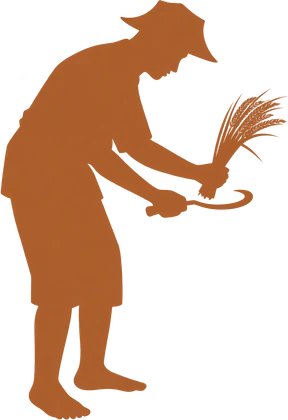
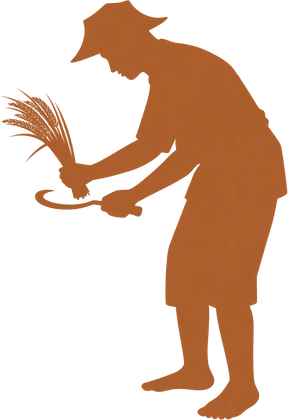
Centre the meaning statement, mirror the farmer, add the contact backend
The meaning line on the homepage centres.

The Raja Bhat silhouette faces the other way. The source PNG has the farmer
facing right; the card artwork has him mirrored, facing left. The asset is
flipped at export rather than with a CSS transform, so the file itself matches
the drawing.

site/contact/apps-script.gs is the Get in Touch backend, with its setup steps
in the file. It takes the form's JSON, validates it, and mails it to
nikhiludupa4@gmail.com with Reply-To set to the sender so a reply goes
straight back.

One thing in there is load-bearing and easy to undo by accident: the site
posts JSON as text/plain deliberately. An application/json POST triggers a
CORS preflight, and an Apps Script web app cannot answer OPTIONS -- the form
would fail in the browser with nothing useful logged. text/plain is a simple
request, so no preflight. The file says so where someone would be tempted to
change it.

The /exec URL ends up in the page source, so it is public and postable by
anything. MAX_PER_HOUR is the flood stop; a honeypot is the next step if real
spam starts.

CONTACT_ENDPOINT is still empty -- it needs the URL from a deployment only the
account owner can make.

diff --git a/src/index.html b/src/index.html
@@ -140,7 +140,7 @@ body{margin:0}
 
 #page-home /* ---------- Meaning strip (below hero) ---------- */
 .meaning{background:var(--bg);color:var(--primary);padding-block:clamp(3.5rem,7vw,5.5rem);position:relative;overflow:hidden}
-#page-home .meaning-text{font-family:var(--fd);font-weight:600;font-size:clamp(.95rem,1.8vw,1.5rem);
+#page-home .meaning-text{text-align:center;font-family:var(--fd);font-weight:600;font-size:clamp(.95rem,1.8vw,1.5rem);
   line-height:1.35;color:rgba(55,40,7,.55);margin:0;max-width:none;letter-spacing:.01em}
 #page-home .meaning-text .bhu{color:rgba(180,112,58,.8)}
 #page-home .meaning-text .bhu{font-weight:700;color:var(--clay)}
